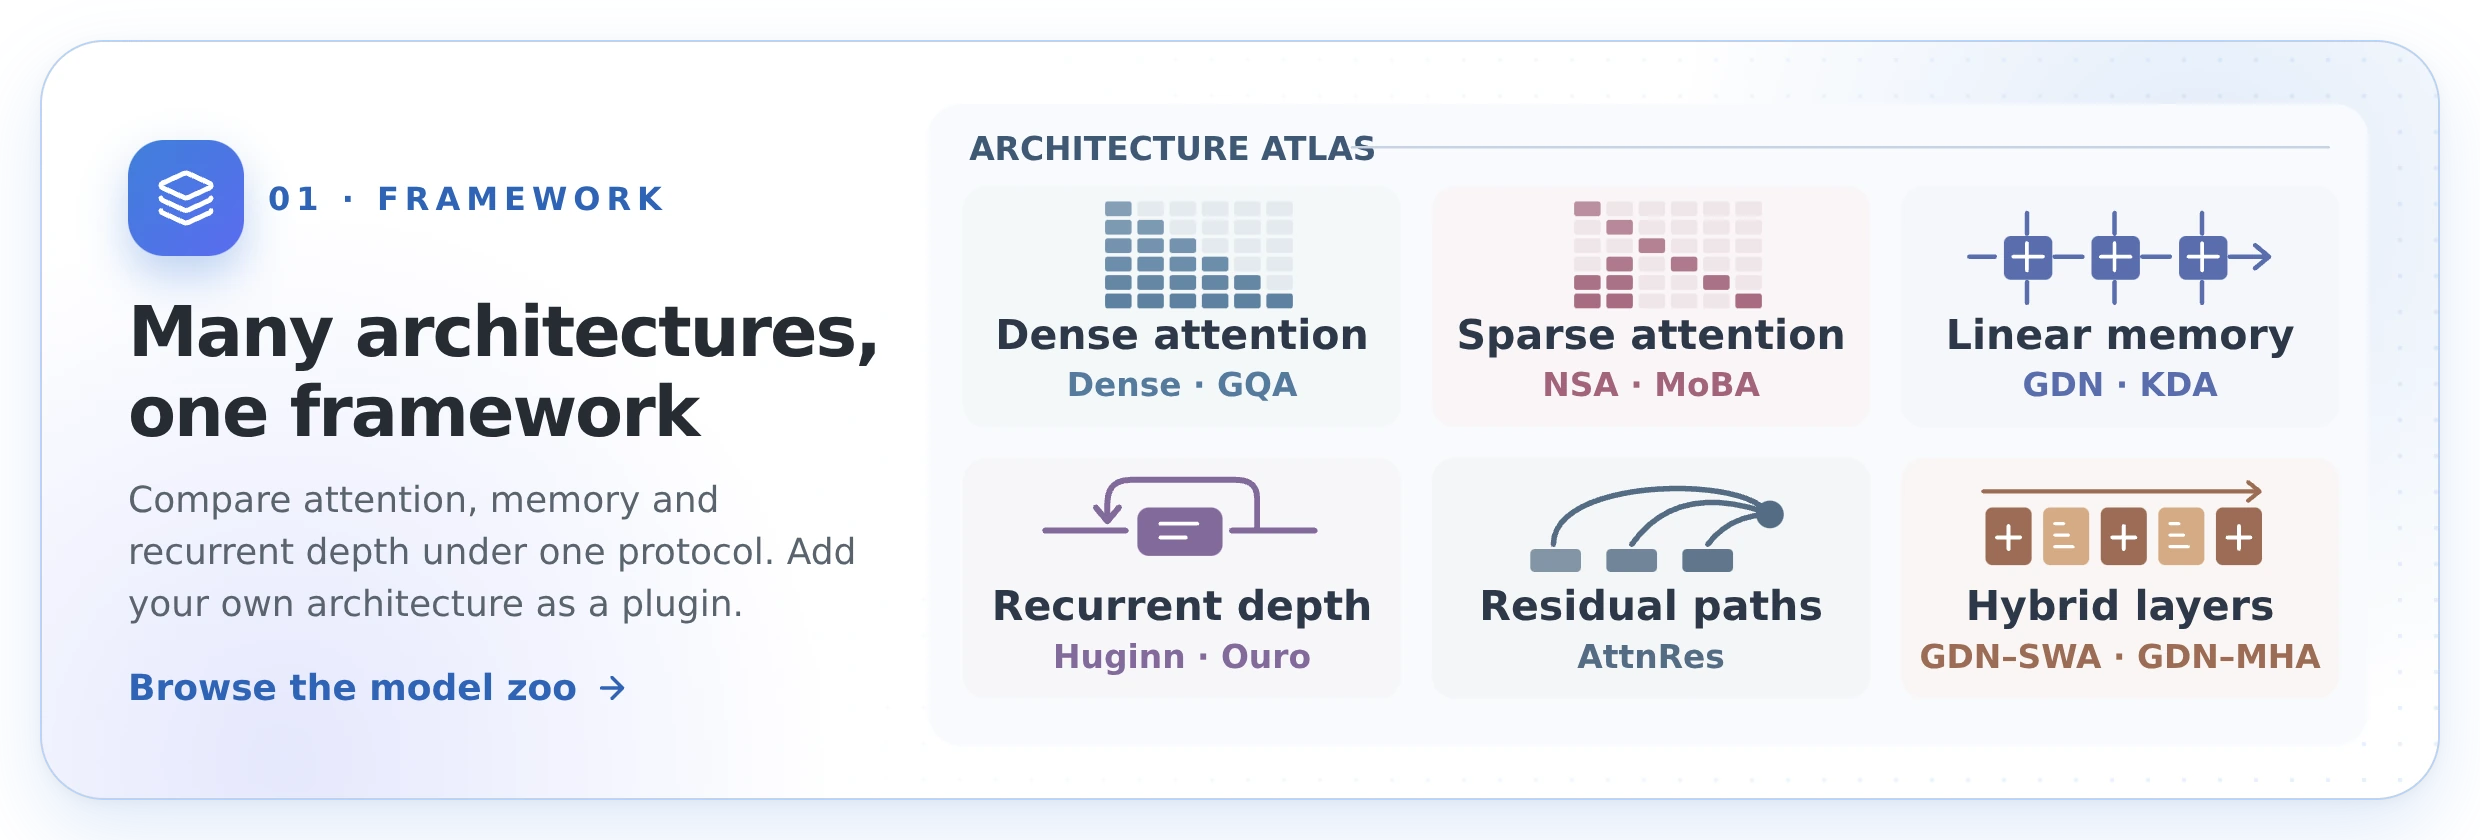
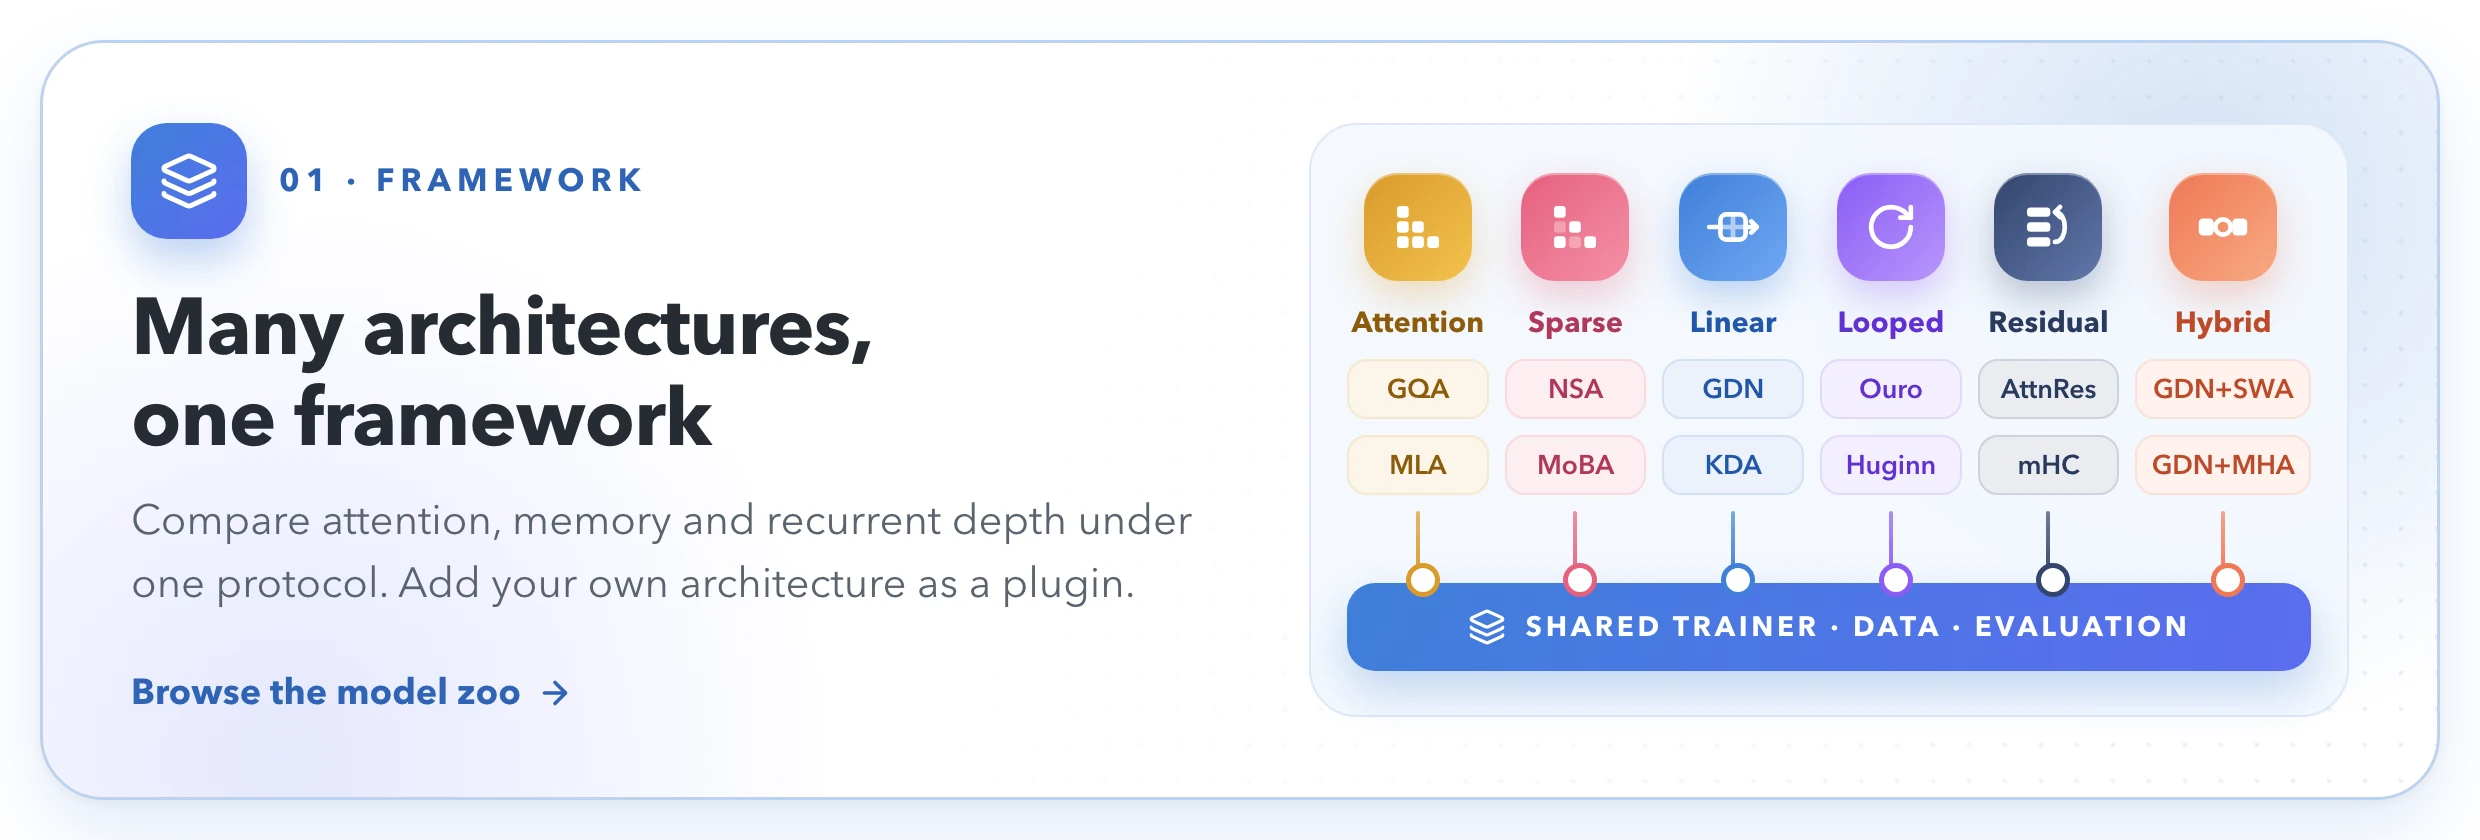
Redesign the framework highlight and align the scale card's fonts
The framework card now shows six architecture families, each with two
published models, plugged into one shared trainer, data pipeline and
evaluation. It draws no model total, so new methods need no redraw.

Both cards use the same fonts and card styling as the protocol and agent
cards. The scale card keeps its text and layout.

diff --git a/README.md b/README.md
@@ -38,7 +38,7 @@ result is an audited, file-backed record, and AI agents can research new archite
 
 ## Highlights
 
-<a href="https://interactive-active-ai.github.io/NextTransformer/docs/methods/zoo/"><img src=".github/assets/readme/card-framework-en.webp" alt="Architecture atlas: dense and sparse attention, linear memory, recurrent depth, residual paths and hybrid layers, with examples including MoBA, KDA, Ouro and AttnRes." width="100%"></a>
+<a href="https://interactive-active-ai.github.io/NextTransformer/docs/methods/zoo/"><img src=".github/assets/readme/card-framework-en.webp" alt="Many architectures, one framework: attention, sparse, linear, looped, residual and hybrid models such as GQA, NSA, MoBA, GDN, KDA, Ouro, AttnRes and GDN+SWA plug into one shared trainer, data pipeline and evaluation." width="100%"></a>
 
 <a href="https://interactive-active-ai.github.io/NextTransformer/docs/protocol/overview/"><img src=".github/assets/readme/card-protocol-en.webp" alt="A fair, explicit protocol: same data, tokens, optimizer, schedule and evaluation for every model; training compute matched to within 1% and audited over the whole run." width="100%"></a>
 

diff --git a/README.zh-CN.md b/README.zh-CN.md
@@ -37,7 +37,7 @@ AI agent 也可以在完全相同的规则下研究新架构。
 
 ## 亮点
 
-<a href="https://interactive-active-ai.github.io/NextTransformer/docs/zh-cn/methods/zoo/"><img src=".github/assets/readme/card-framework-zh.webp" alt="架构图谱：全注意力、稀疏注意力、线性记忆、循环深度、残差连接和混合层，代表模型包括 MoBA、KDA、Ouro 和 AttnRes。" width="100%"></a>
+<a href="https://interactive-active-ai.github.io/NextTransformer/docs/zh-cn/methods/zoo/"><img src=".github/assets/readme/card-framework-zh.webp" alt="一个框架，集成前沿架构：注意力、稀疏、线性、循环、残差和混合架构，例如 GQA、NSA、MoBA、GDN、KDA、Ouro、AttnRes 和 GDN+SWA，都接入同一套训练器、数据和评测。" width="100%"></a>
 
 <a href="https://interactive-active-ai.github.io/NextTransformer/docs/zh-cn/protocol/overview/"><img src=".github/assets/readme/card-protocol-zh.webp" alt="公平、明确的协议：每个模型使用相同的数据、token、优化器、调度和评测；训练算力对齐到 1% 以内，并对整个运行做审计。" width="100%"></a>
 
